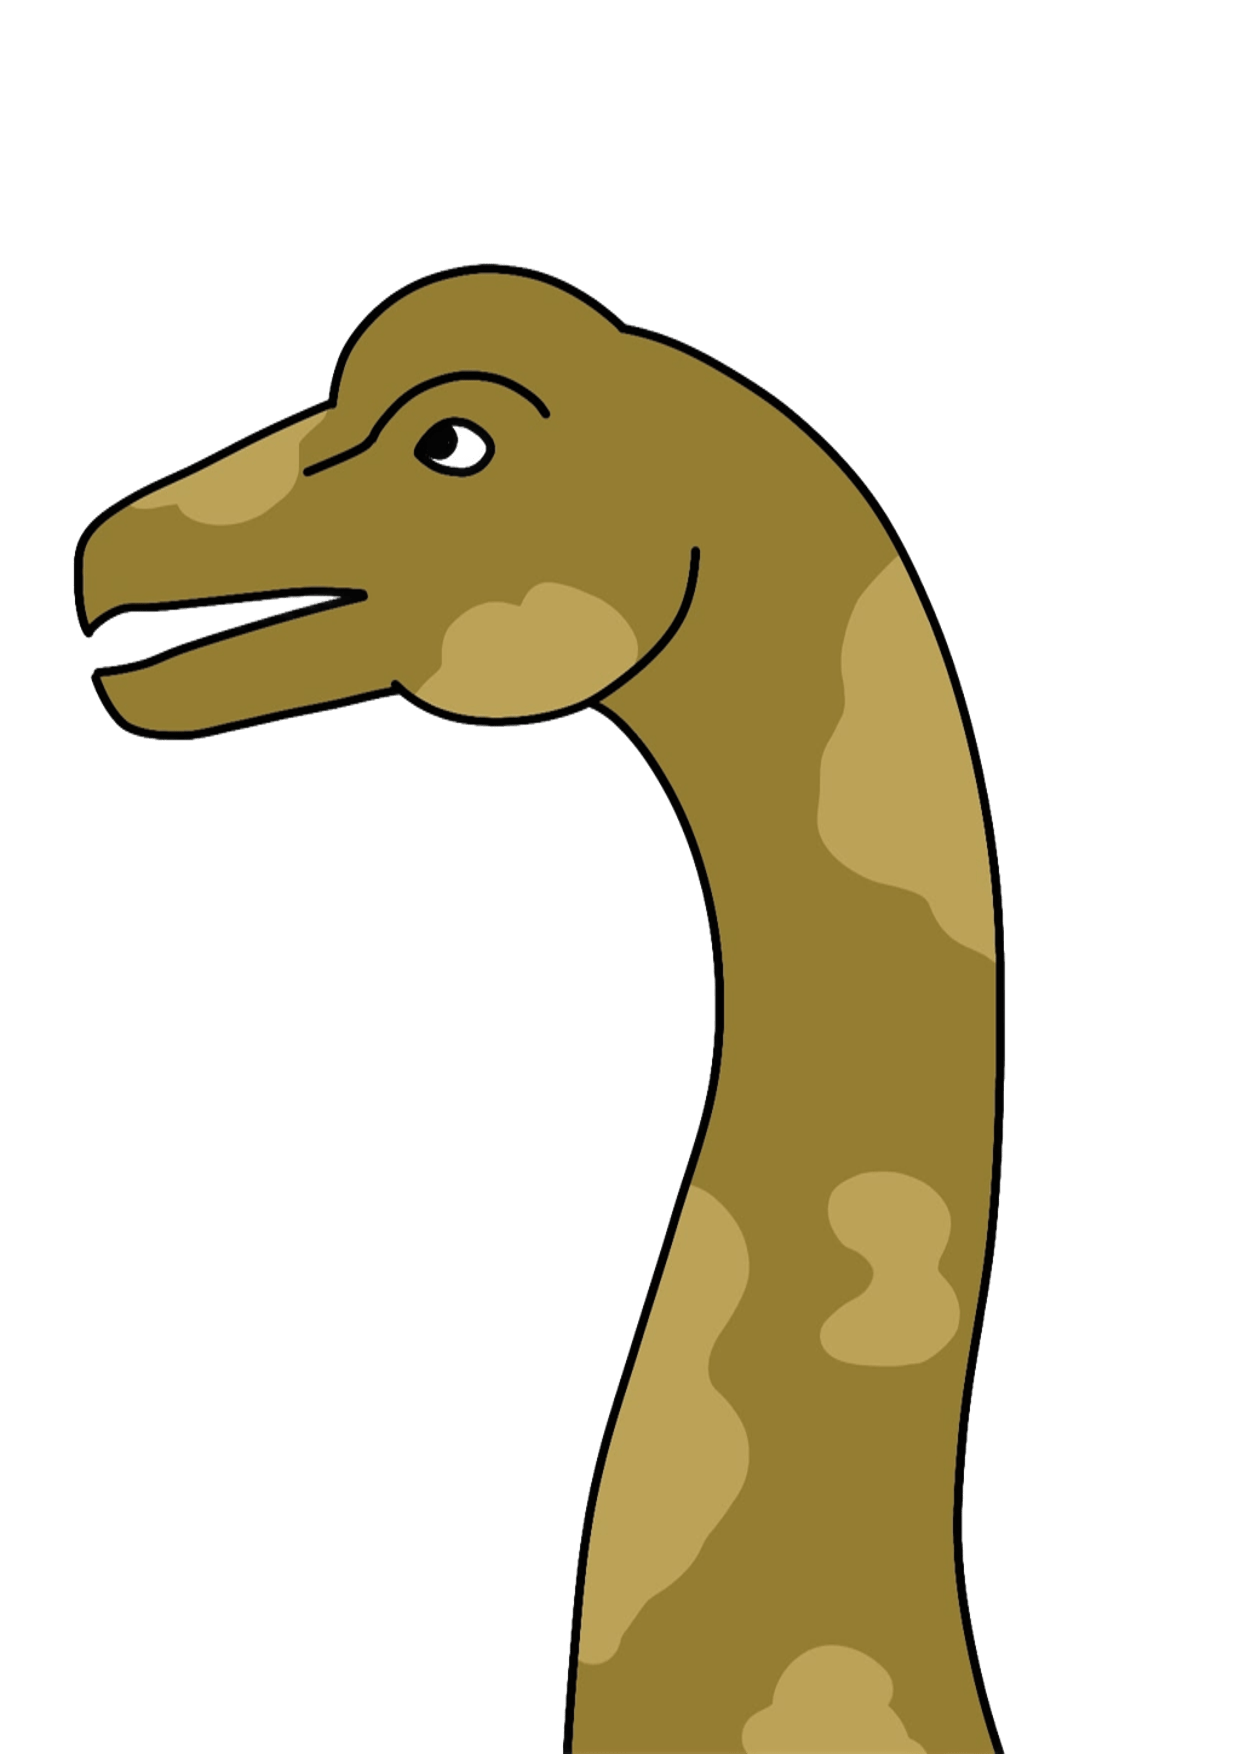
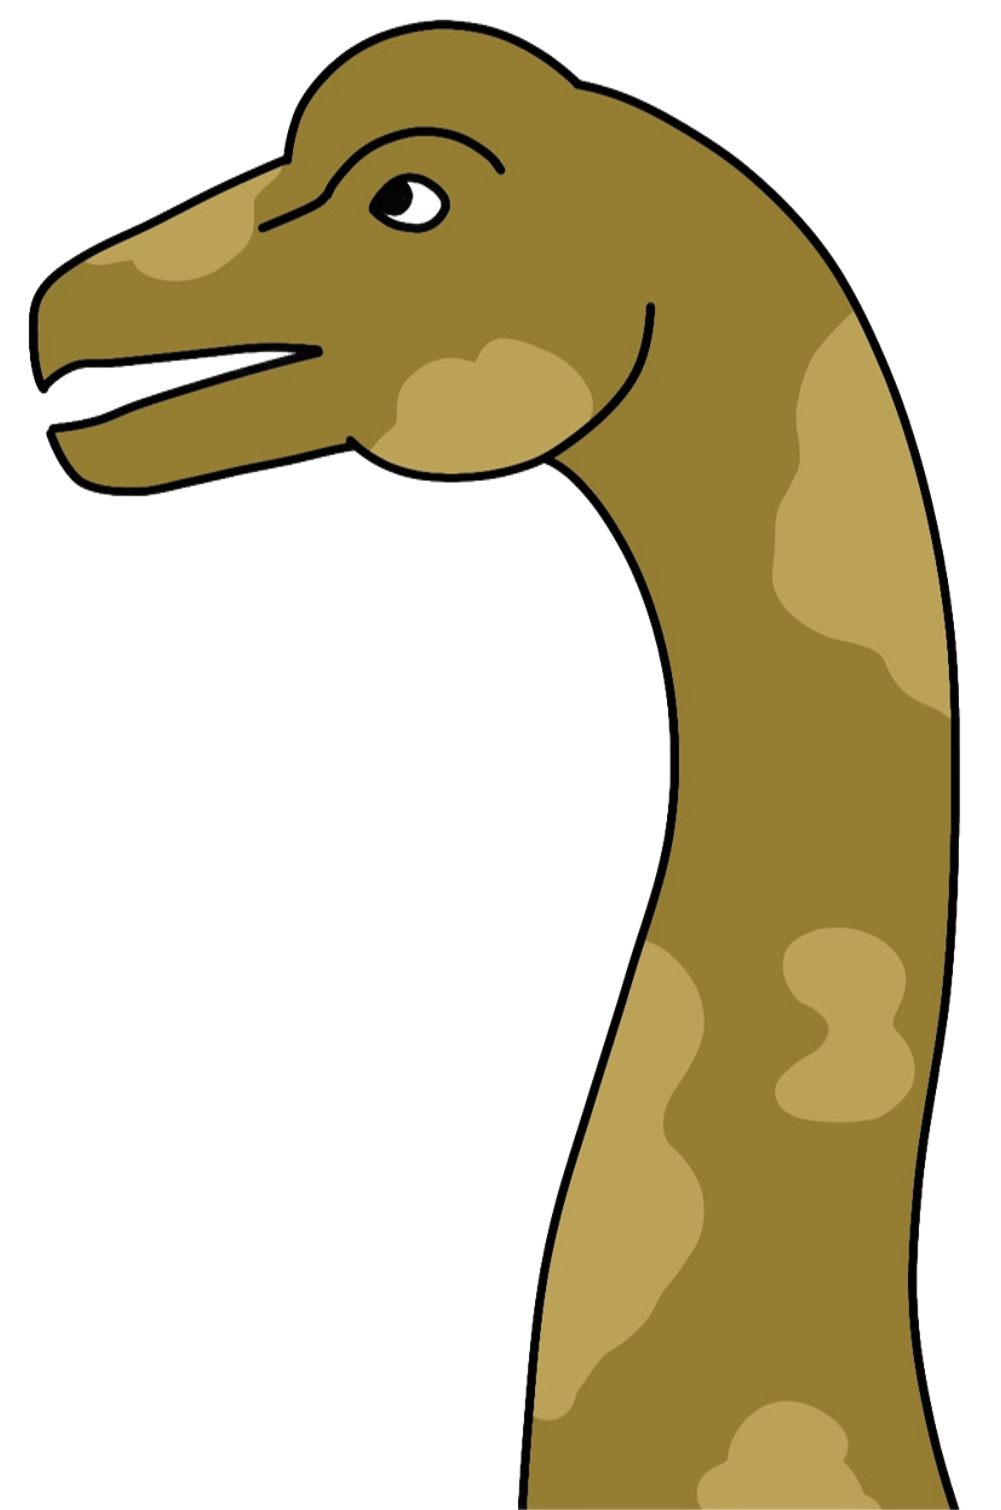
dino

diff --git a/core/src/ru/samsung/gamestudio/characters/Tube.java b/core/src/ru/samsung/gamestudio/characters/Tube.java
@@ -16,7 +16,7 @@ public class Tube {
     private int padding;
     private int gapY;
     private int distanceBetweenTubes;
-    private int width = 200;
+    private int width = 250;
     private int height = 750;
     float speed = 5;
     boolean isPointReceived;
@@ -30,8 +30,8 @@ public class Tube {
     }
 
     public Tube(int tubeCount, int tubeIdx) {
-        textureUpperTube = new Texture("tube/tube_flipped.png");
-        textureDownTube = new Texture("tube/tube.png");
+        textureUpperTube = new Texture("tube/lianatube.png");
+        textureDownTube = new Texture("tube/dinotube.png");
 
         gapY = gapHeight / 2 + padding + r.nextInt(SCR_HEIGHT - 2 * (padding + gapHeight / 2));
         distanceBetweenTubes = (SCR_WIDTH + width) / (tubeCount - 1);

diff --git a/core/src/ru/samsung/gamestudio/characters/Bird.java b/core/src/ru/samsung/gamestudio/characters/Bird.java
@@ -6,8 +6,8 @@ import com.badlogic.gdx.graphics.g2d.Batch;
 import static ru.samsung.gamestudio.MyGdxGame.SCR_HEIGHT;
 
 public class Bird {
-    public int width = 200;
-    public int height = 200;
+    public int width = 150;
+    public int height = 150;
     int jumpHeight;
     final int maxHeightOfJump = 200;
     boolean jump;
